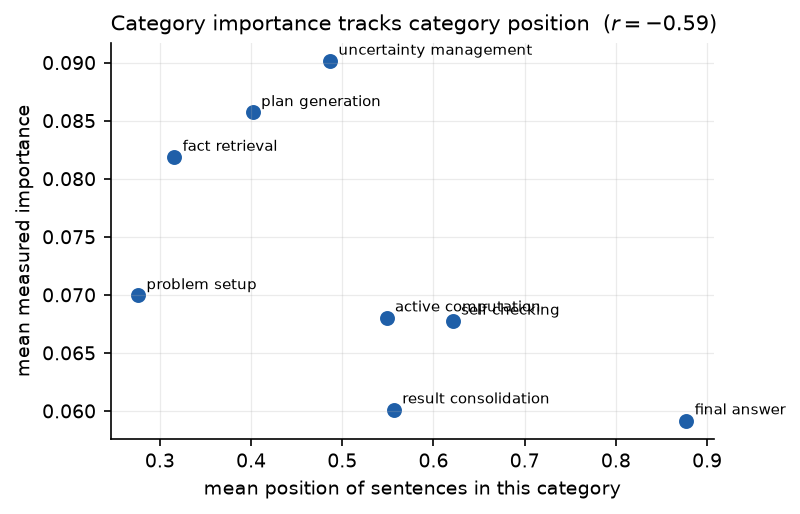
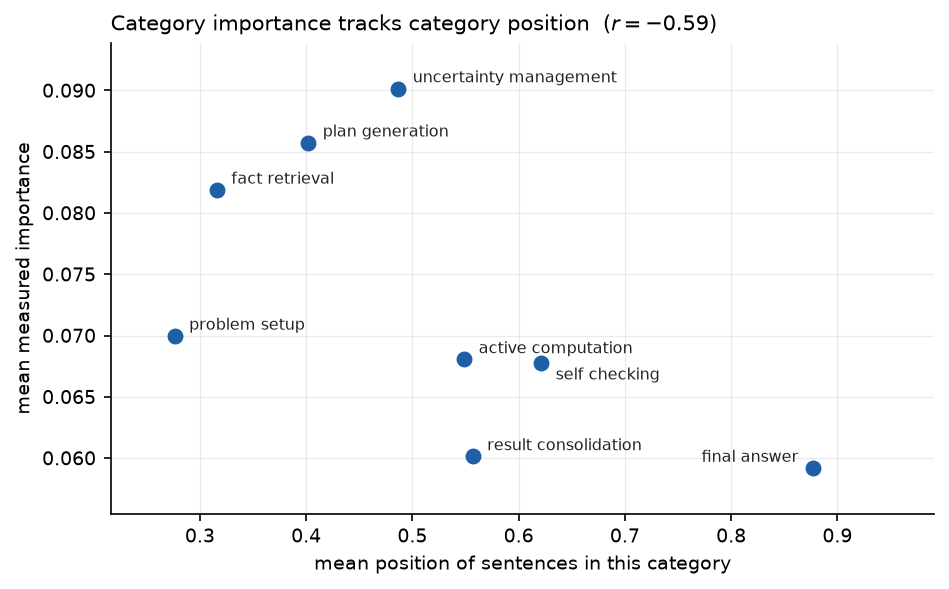
Rewrite READM

diff --git a/code/05_figures.py b/code/05_figures.py
@@ -136,6 +136,46 @@ def fig_filler(df: pd.DataFrame, tag: str, measure: str) -> None:
     plt.close(fig)
 
 
+def _place_labels(ax, xs, ys, labels, fontsize=7.5, colour="#222222"):
+    """Annotate points, choosing an offset per label that avoids collisions.
+
+    A fixed offset overlaps whenever two points sit close together --- here
+    "active computation" and "self checking" differ by 0.0003 in importance and
+    landed on top of each other. For each point we try a ring of candidate
+    offsets and keep the first whose text box clears every box already placed
+    and stays inside the axes. Falls back to the default if none is free.
+    """
+    fig = ax.get_figure()
+    fig.canvas.draw()                      # needed before any bbox is valid
+    placed = []
+    # (dx, dy) in points, tried in order: right, left, above, below, diagonals.
+    candidates = [(7, 3), (-7, 3), (7, -8), (-7, -8), (0, 9), (0, -13),
+                  (13, 8), (-13, 8), (13, -13), (-13, -13), (0, 16), (0, -20)]
+    order = np.argsort(-np.asarray(ys))    # place high points first
+    for i in order:
+        best = None
+        for dx, dy in candidates:
+            ha = "left" if dx >= 0 else "right"
+            ann = ax.annotate(labels[i], (xs[i], ys[i]), fontsize=fontsize,
+                              xytext=(dx, dy), textcoords="offset points",
+                              ha=ha, color=colour, zorder=4)
+            fig.canvas.draw()
+            bb = ann.get_window_extent()
+            inside = ax.get_window_extent().contains(bb.x0, bb.y0) and \
+                     ax.get_window_extent().contains(bb.x1, bb.y1)
+            if inside and not any(bb.overlaps(q) for q in placed):
+                best = (ann, bb)
+                break
+            ann.remove()
+        if best is None:                   # nothing clear: accept the default
+            ann = ax.annotate(labels[i], (xs[i], ys[i]), fontsize=fontsize,
+                              xytext=(7, 3), textcoords="offset points",
+                              ha="left", color=colour, zorder=4)
+            fig.canvas.draw()
+            best = (ann, ann.get_window_extent())
+        placed.append(best[1])
+
+
 def fig_categories(df: pd.DataFrame, tag: str, label_col: str, measure: str) -> None:
     sub = df[(df[label_col] != "unparsed") & df[label_col].notna()].copy()
     if sub.empty or sub[label_col].nunique() < 3:
@@ -164,13 +204,17 @@ def fig_categories(df: pd.DataFrame, tag: str, label_col: str, measure: str) -> 
     fig.savefig(C.FIGURES / f"fig4_categories_{tag}.png", bbox_inches="tight")
     plt.close(fig)
 
-    fig, ax = plt.subplots(figsize=(5.4, 3.5))
+    fig, ax = plt.subplots(figsize=(6.4, 4.0))
     mp = sub.groupby(label_col).position.mean().reindex(order)
     mi = sub.groupby(label_col)[measure].mean().reindex(order)
-    ax.scatter(mp.values, mi.values, s=38, color=REAL)
-    for cat, xx, yy in zip(order, mp.values, mi.values):
-        ax.annotate(cat.replace("_", " "), (xx, yy), fontsize=7,
-                    xytext=(4, 3), textcoords="offset points")
+    ax.scatter(mp.values, mi.values, s=44, color=REAL, zorder=3)
+    # Give the labels room, otherwise the outermost ones run off the axes.
+    xpad = 0.10 * (mp.max() - mp.min())
+    ypad = 0.12 * (mi.max() - mi.min())
+    ax.set_xlim(mp.min() - xpad, mp.max() + xpad * 1.9)
+    ax.set_ylim(mi.min() - ypad, mi.max() + ypad)
+    _place_labels(ax, mp.values, mi.values,
+                  [c.replace("_", " ") for c in order], fontsize=7.5)
     if len(order) >= 3:
         r = stats.pearsonr(mp.values, mi.values)
         ax.set_title(f"Category importance tracks category position  ($r={r.statistic:+.2f}$)",

diff --git a/README.md b/README.md
@@ -1,196 +1,172 @@
 # What resampling importance actually measures
 
 Code and data for a red-team of the black-box **thought anchors** measure
-(Bogdan, Macar, Nanda & Conmy) — testing whether sentence-level resampling
+(Bogdan, Macar, Nanda & Conmy), testing whether sentence-level resampling
 importance is confounded by a sentence's **position** in the reasoning trace.
 
-**It isn't.** The measure survives that confound. What it *is* dominated by is
-how undecided the model still was when the sentence arrived.
+**It is not.** The measure survives that confound. What it is dominated by
+instead is how undecided the model still was when the sentence arrived.
 
-> **Headline.** Regressing importance on candidate explanations (254 sentences):
-> headroom `H(A_{i-1})` explains **R² = 0.351**, against **0.027** for position
-> and **0.014** for sentence category. Headroom uniquely adds **+0.334** over the
-> other two combined, and is not position in disguise (ρ = −0.45 with position).
+> Regressing importance on candidate explanations (254 sentences): headroom
+> $H(A_{i-1})$ explains $R^2 = 0.351$, against $0.027$ for position and $0.014$
+> for sentence category. Headroom uniquely adds $+0.334$ over the other two
+> combined, and is not position in disguise ($\rho = -0.45$ with position).
 
-Setting: **DeepSeek-R1-Distill-Qwen-14B** on MATH-500 — the model the method was
+Setting: **DeepSeek-R1-Distill-Qwen-14B** on MATH-500, the model the method was
 built on. 8 traces, 254 sentences, 64 rollouts per prefix boundary.
 
----
+![what importance is made of](figures/fig0_headline_DeepSeek-R1-Distill-Qwen-14B.png)
 
 ## The measure
 
-For a trace with sentences `S_0 … S_{n-1}`, let `A_i` be the distribution over
-final answers when the model continues from the prefix **including** `S_i`, and
-`A_{i-1}` the distribution when it stops **before** `S_i` (so the model resamples
-its own replacement `T_i`):
+For a trace with sentences $S_0 \dots S_{n-1}$, let $A_i$ be the distribution
+over final answers when the model continues from the prefix that **includes**
+$S_i$, and $A_{i-1}$ the distribution when it stops **before** $S_i$, so the
+model resamples its own replacement $T_i$:
 
-```
-resampling importance       imp_r(i) = D_KL[ p(A_{i-1}) || p(A_i) ]
-counterfactual importance   imp(i)   = D_KL[ p(A_{i-1} | T_i ≁ S_i) || p(A_i) ]
-```
+$$\mathrm{imp}_r(i) = D_{\mathrm{KL}}\big[\,p(A_{i-1}) \,\|\, p(A_i)\,\big]$$
 
-`T_i ≁ S_i` is cosine similarity < 0.8 under `all-MiniLM-L6-v2`, matching the
-original work.
+$$\mathrm{imp}(i) = D_{\mathrm{KL}}\big[\,p(A_{i-1} \mid T_i \nsim S_i) \,\|\, p(A_i)\,\big]$$
 
-**`A'_i` and `A_{i-1}` are the same object** — both are rollouts from prefix
-`S_{<i}` — so one sweep over the `n+1` prefix boundaries yields every importance
-in the trace.
+The second is *counterfactual importance*, which keeps only rollouts whose
+replacement was semantically different from the original ($\cos < 0.8$ under
+`all-MiniLM-L6-v2`, matching the original work).
 
-## Three controls
-
-| control | holds fixed | varies | asks |
-|---|---|---|---|
-| position-only predictor | — | — | what does a rule that never reads the text recover? |
-| filler arm | position | content **removed** | does a content-free sentence move the distribution as much? |
-| paraphrase arm | position | content **preserved** | when the model resamples the same meaning, does divergence vanish? |
-
-The paraphrase arm is free: it is the complement of the semantic filter that
-defines counterfactual importance — the rollouts the published measure discards.
-
-**The filler arm was withdrawn.** A pre-registered check found the filler sits
-−7.61 σ from the model's own sentences (a deliberately alien sentence sits at
-−11.68 σ), so it measured *disruption*, not "same position, no content". See
-`10_filler_indistribution.py`.
-
----
+Note that $A'_i$ and $A_{i-1}$ are the same object, both being the rollouts
+launched from prefix $S_{<i}$. One sweep over the $n+1$ prefix boundaries
+therefore yields every importance in the trace.
 
 ## Results
 
-| # | finding | evidence |
+| # | Finding | Evidence |
 |---|---|---|
-| 1 | Importance is **not** positional | ρ = +0.044 (p=0.48); top-3 recovery **0.083 vs chance 0.095** |
-| 2 | It tracks **how undecided the model was** | R² = **0.351** vs 0.027 (position) / 0.014 (category) |
-| 3 | The categorical claim survives too | category is strongly positional (Kruskal p=1.2e-13) yet shared R² = **0.001** |
-| 4 | White-box receiver heads are **recency** | **84%** of their attention mass within 1 sentence of the diagonal |
-| 5 | The semantic filter does nothing detectable | different 0.103 vs similar 0.119; gap −0.016, CI [−0.081, +0.040] |
-| 6 | The method doesn't reach current models | ~**11 H200-hours per trace** on Olmo-3-Think / Qwen3-8B |
+| 1 | Importance is **not** positional | $\rho = +0.044$ ($p = 0.48$); top-3 recovery **0.083 vs chance 0.095** |
+| 2 | It tracks **how undecided the model was** | $R^2 = 0.351$ vs $0.027$ (position), $0.014$ (category) |
+| 3 | The categorical claim survives too | category is strongly positional (Kruskal $p = 1.2 \times 10^{-13}$) yet shared $R^2 = 0.001$ |
+| 4 | White-box receiver heads are **recency** | **84%** of their attention mass within one sentence of the diagonal |
+| 5 | The semantic filter does nothing detectable | different $0.103$ vs similar $0.119$; gap $-0.016$, CI $[-0.081, +0.040]$ |
+| 6 | The method does not reach current models | about **11 H200-hours per trace** on Olmo-3-Think and Qwen3-8B |
 
-![headline](figures/fig0_headline_DeepSeek-R1-Distill-Qwen-14B.png)
+### The white-box arm, and the error in it
 
----
+The original work offers black-box and white-box agreement as mutual
+corroboration. Reimplementing the white-box side (receiver heads, 48 layers by
+40 heads) gave the largest effect in the study, $\rho = +0.574$ with top-3
+recovery at 12x chance. Plotting the attention matrix showed why: 84% of those
+heads' attention mass lies within one sentence of the diagonal. They are recency
+heads, not the long-range broadcasting heads the account describes. Excluding a
+band around the diagonal collapses the effect.
+
+![white-box and the diagonal correction](figures/fig8_whitebox_DeepSeek-R1-Distill-Qwen-14B.png)
 
 ## Start here: four notebooks, no GPU required
 
-Every notebook runs **CPU-only in seconds** from data committed to this repo. No
-model download, no API key, no GPU. Outputs are saved, so you can read them on
-GitHub without running anything.
+Each runs **CPU-only in seconds** from data committed to this repo. No model
+download, no API key, no GPU. Outputs are saved, so they are readable on GitHub
+without running anything.
 
-| notebook | what it does | needs |
-|---|---|---|
-| [`01_reproduce_headline.ipynb`](notebooks/01_reproduce_headline.ipynb) | Re-derives the headline from scratch: the variance decomposition (**R² = 0.351** headroom vs 0.027 position vs 0.014 category), the position-only control, the noise floor, the paraphrase contrast | CPU, seconds |
-| [`02_look_at_the_data.ipynb`](notebooks/02_look_at_the_data.ipynb) | The three judgement calls the study rests on: segmentation, answer extraction, labelling. **Re-computes an importance value by hand** and checks it against the pipeline. Shows the withdrawn filler control | CPU, seconds |
-| [`03_instrument_validation.ipynb`](notebooks/03_instrument_validation.ipynb) | The six pass conditions declared *before* running, on planted ground truth. Shows the estimator is not intrinsically positional — which is what makes the null interpretable | CPU, ~1 min |
-| [`04_whitebox_recency.ipynb`](notebooks/04_whitebox_recency.ipynb) | The white-box arm, and the error I found in it: the "receiver heads" turn out to be **recency heads** (84% of mass within one sentence of the diagonal) | CPU, seconds |
+| Notebook | What it does |
+|---|---|
+| [`01_reproduce_headline`](notebooks/01_reproduce_headline.ipynb) | Re-derives the variance decomposition from scratch, the position-only control, the noise floor, the paraphrase contrast |
+| [`02_look_at_the_data`](notebooks/02_look_at_the_data.ipynb) | Segmentation, answer extraction and labelling, with randomly selected examples. Recomputes an importance value by hand and checks it against the pipeline |
+| [`03_instrument_validation`](notebooks/03_instrument_validation.ipynb) | Six pass conditions declared before running, on planted ground truth |
+| [`04_whitebox_recency`](notebooks/04_whitebox_recency.ipynb) | The white-box arm and the min-gap correction |
 
 ```bash
-pip install -r requirements.txt   # or just: numpy pandas scipy matplotlib
+pip install -r requirements.txt
 jupyter lab notebooks/
 ```
 
-> **If you only run one:** notebook 1. If you want to know whether to *believe*
-> notebook 1, run notebook 3 first — it is the argument that the instrument
-> works.
+If you only run one, run the first. If you want to know whether to believe it,
+run the third: it is the argument that the instrument works.
 
----
+## Controls
 
-## Reproducing
+Three controls were built. The **position-only predictor** sees only a sentence's
+normalised position and never reads the text. The **paraphrase arm** holds
+position fixed and preserves content: it is free, being the complement of the
+semantic filter above, the rollouts the published measure discards.
 
-**Environment.** Python 3.12, one H200-class GPU. See `requirements.txt`.
-The engine runs vLLM in-process (`VLLM_ENABLE_V1_MULTIPROCESSING=0`) — see
-`slurm/_common.sh` for the node-specific reasons, including a CUDA 11.8 / Hopper
+**The third, a filler arm, was withdrawn.** A pre-registered check found the filler sits
+$-7.61\sigma$ from the model's own sentences, where a deliberately alien sentence
+sits at $-11.68\sigma$, and it was more likely than the real sentence in 0 of 120
+slots. It measured disruption rather than absence of content, so its result does
+not bear on the question. See `10_filler_indistribution.py`.
+
+## Reproducing the full pipeline
+
+Python 3.12, one H200-class GPU. The engine runs vLLM in-process. See
+`slurm/_common.sh` for node-specific details, including a CUDA 11.8 and Hopper
 incompatibility that requires pointing `CUDA_HOME` at the toolkit bundled in the
 torch wheels.
 
 ```bash
-make sim         # instrument validation on planted ground truth — start here
+make sim         # instrument validation on planted ground truth
 make traces      # select problems on answer entropy, generate base traces
-make resample    # the prefix sweep            (ARM=main)
-make filler      # the content control          (ARM=filler)
-make analyze     # importance + all controls -> data/sentences_*.csv
+make resample    # the prefix sweep, ARM=main
+make filler      # the content control, ARM=filler
+make analyze     # importance and all controls, writes data/sentences_*.csv
 make labels categories figures examples report
 ```
 
-On a SLURM cluster use `slurm/` instead; `slurm/run_pipeline.sh` chains the whole
-thing with `afterok` dependencies.
+On a cluster use `slurm/` instead; `slurm/run_pipeline.sh` chains the stages with
+`afterok` dependencies.
 
-### Regenerating the attention tensors
+### Attention tensors
 
-The white-box arm writes per-trace attention as `data/attn_*.npy`
-(`[layers, heads, sentences, sentences]`). **These are excluded from the repo** —
-they total 591 MB and two exceed GitHub's 100 MB file limit. Regenerate with:
+The white-box arm writes per-trace attention as `data/attn_*.npy` with shape
+`[layers, heads, sentences, sentences]`. These are excluded from the repo: they
+total 591 MB and two exceed GitHub's 100 MB file limit. Regenerate with:
 
 ```bash
 python code/11_internals.py --model deepseek-ai/DeepSeek-R1-Distill-Qwen-14B --max-traces 8
 python code/14_mingap_sweep.py --model deepseek-ai/DeepSeek-R1-Distill-Qwen-14B
 ```
 
-One forward pass per trace under eager attention; no sampling. Everything else
-needed to reproduce every number in the report **is** in `data/`.
+Everything else needed to reproduce every number is already in `data/`.
 
----
+## Layout
 
-## What's here
-
-| path | contents |
+| Path | Contents |
 |---|---|
-| `code/anchors/` | library: segmentation, answer normalisation, importance estimators + noise floor, position baseline, rollout engine, simulator |
-| `code/00`–`15_*.py` | pipeline stages, numbered in execution order |
-| `code/Makefile` | one target per stage |
-| `slurm/` | cluster submission; `_common.sh` documents the node-specific fixes |
-| `data/` | screening, length probes, traces, raw rollouts, per-sentence CSV, all summary JSON |
-| `figures/` | the nine figures in the report |
-| `notebooks/` | four CPU-only notebooks reproducing the results (see above) |
-
-### Stages worth reading first
-
-- **`06_simulate.py`** — validates the instrument on planted ground truth with
-  **six pass conditions declared before running**. Shows the estimator is not
-  intrinsically positional, which is what makes the real-data null interpretable.
-- **`anchors/importance.py`** — the estimators, and the parametric-bootstrap
-  **finite-sample floor**. With R rollouts a side, empirical KL is positive even
-  when the two distributions are identical, and that offset varies along a trace.
-- **`anchors/baselines.py`** — the position-only predictor, fit
-  leave-one-trace-out so it can never memorise the trace it scores.
-- **`14_mingap_sweep.py`** — the correction that turned the white-box result from
-  "strongly positional" into "dominated by recency".
+| `code/anchors/` | Library: segmentation, answer normalisation, importance estimators and noise floor, position baseline, rollout engine, simulator |
+| `code/*.py` | Pipeline stages, numbered in execution order |
+| `notebooks/` | Four CPU-only reproduction notebooks |
+| `slurm/` | Cluster submission scripts |
+| `data/` | Screening, length probes, traces, raw rollouts, per-sentence CSV, summary JSON |
+| `figures/` | The nine figures from the report |
 
 ## Design decisions that carry weight
 
 - **Prefixes are exact slices.** Segmentation returns character spans, so a
-  rollout prompt is literally `thinking[:span.end]` — the bytes the model
-  produced. Nothing is re-rendered. There is a tiling assertion.
+  rollout prompt is literally `thinking[:span.end]`, the bytes the model
+  produced. Nothing is re-rendered. There is a tiling assertion for this.
 - **`<none>` is an outcome, not a wrong answer.** A rollout that exhausts its
-  budget is labelled separately; folding it into "incorrect" would hand-build a
-  positional trend. *This is what exposed a broken experiment early on.*
+  budget is labelled separately. Folding it into "incorrect" would build a
+  positional trend into the data by hand.
 - **Rollouts are unseeded.** A fixed `SamplingParams.seed` makes vLLM
-  deterministic per prompt — 24 identical requests returned the same 8
-  completions — which would impose common random numbers across neighbouring
-  prefixes.
-- **Windowed sampling.** 6 windows × 4 consecutive sentences measures the *same*
-  sentence-level quantity on a random subsample rather than coarsening the unit:
-  55 prefixes instead of 517, 42M tokens instead of 271M.
-- **Cluster bootstrap** over traces for all CIs; sentences within a trace are not
-  independent.
+  deterministic per prompt: 24 identical requests returned the same 8
+  completions.
+- **Windowed sampling.** Six windows of four consecutive sentences measure the
+  same sentence-level quantity on a random subsample rather than coarsening the
+  unit: 55 prefixes instead of 517, 42M tokens instead of 271M.
+- **Every divergence is reported against its finite-sample floor**, estimated by
+  parametric bootstrap under the null that the sentence did nothing. The
+  position predictor is fit leave-one-trace-out, and all confidence intervals
+  use a cluster bootstrap over traces.
 
-## Honest limits
+## Limits
 
-- **n = 8 traces / 254 sentences.** The constraint is answer dispersion, not
-  compute: entropy is exactly **zero for 84% of the 140 problems screened**.
-- **61% of sentences clear their own noise floor** at R = 64. The pooled and
-  variance-decomposition results are the defensible ones, not per-sentence ranks.
-- **A null is not proof of absence.** `|ΔP(correct)|`, a lower-variance
-  statistic, *does* show a positional effect (ρ = +0.237) — so this bounds a
-  positional component rather than excluding one.
-- **The white-box long-range result is unresolved** — non-monotone in minimum
-  sentence gap, and at n = 8 I can't separate structure from noise.
+- **8 traces, 254 sentences.** The constraint is answer dispersion, not compute:
+  entropy is exactly zero for 84% of the 140 problems screened.
+- **61% of sentences clear their own noise floor** at $R = 64$. The pooled and
+  variance-decomposition results are defensible; per-sentence rankings are not.
+- **A null is not proof of absence.** $|\Delta P(\text{correct})|$, a
+  lower-variance statistic, does show a positional effect ($\rho = +0.237$), so
+  this bounds a positional component rather than excluding one.
+- **The white-box long-range result is unresolved**, being non-monotone in
+  minimum sentence gap, and at 8 traces structure cannot be separated from noise.
 
-## Pre-registration
-
-Eight predictions with numeric confidences were written and hashed **before any
-importance number existed on a real trace**. Final score: **3 right, 4 wrong, 1
-partial** — including both of the two held with highest confidence. The
-pre-registration and its scoring live in the write-up.
-
-## License
-
-MIT — see `LICENSE`.
+Eight predictions with numeric confidences were written and hashed before any
+importance number existed on a real trace. Final score: 3 right, 4 wrong, 1
+partial, including both of the two held with highest confidence.
